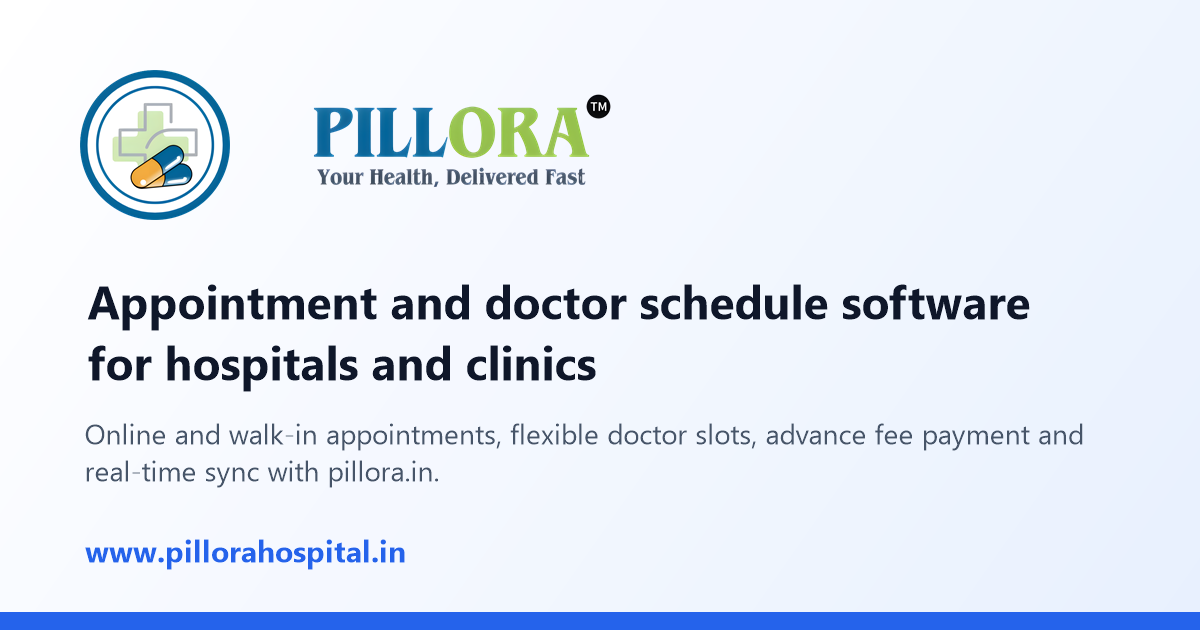
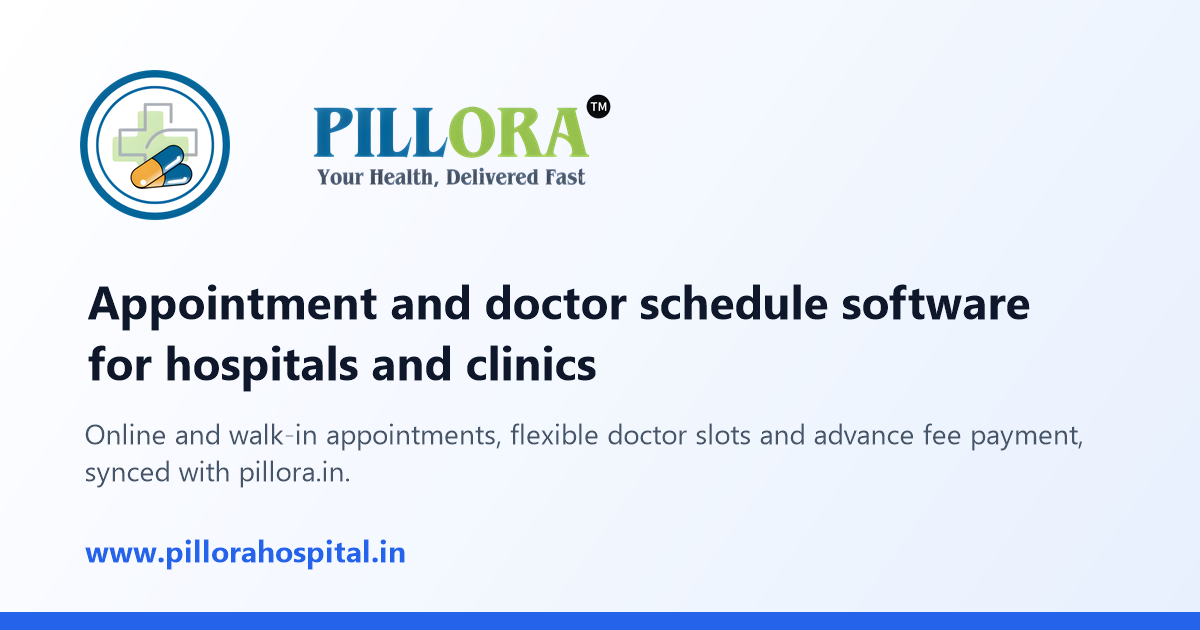
seo: drop 'atomic slot locking' and unverified 'real-time' wording
- Homepage appointment-engine card no longer claims double-booking
  prevention (QA found paid slots can be double-booked); neutral copy
  describing doctor-set slot durations and online + walk-in scheduling.
  Removed from claims.ts.
- 'Real-time sync' -> 'synced/shared with pillora.in' in the homepage
  card and intro, meta descriptions, Organization and
  SoftwareApplication JSON-LD, and the share image. The portals share
  one backend (changes show on next load); live socket push is not
  available in production.

Changed region(s): [[0.0617, 0.7238, 0.37, 0.7841], [0.6167, 0.6635, 0.8942, 0.7238]]

diff --git a/src/lib/structuredData.tsx b/src/lib/structuredData.tsx
@@ -24,7 +24,7 @@ export const organizationJsonLd = () => ({
     url: SITE.url,
     logo: absoluteUrl(SITE.logo),
     description:
-        'Pillora provides hospitals and clinics in India with online and walk-in appointment management, doctor schedules with flexible slots, advance online consultation fee payment, and a doctor directory that syncs in real time with the pillora.in patient booking portal.',
+        'Pillora provides hospitals and clinics in India with online and walk-in appointment management, doctor schedules with flexible slots, advance online consultation fee payment, and a doctor directory shared with the pillora.in patient booking portal.',
     sameAs: [...SITE.sameAs, SITE.patientSiteUrl],
     contactPoint: [
         {
@@ -117,14 +117,14 @@ export const softwareApplicationJsonLd = () => ({
     url: SITE.url,
     image: absoluteUrl(SITE.ogImage),
     description:
-        'Appointment and doctor schedule software for hospitals and clinics in India: online appointment booking for patients, offline and walk-in appointment management, digital scheduling with flexible doctor-configured slots, advance online consultation fee payment, a doctor directory with availability and fees, and real-time sync with the pillora.in patient booking portal.',
+        'Appointment and doctor schedule software for hospitals and clinics in India: online appointment booking for patients, offline and walk-in appointment management, digital scheduling with flexible doctor-configured slots, advance online consultation fee payment, and a doctor directory with availability and fees that is synced with the pillora.in patient booking portal.',
     featureList: [
         'Online appointment booking for patients',
         'Offline and walk-in appointment management',
         'Digital scheduling with flexible slots configured by doctors',
         'Advance online consultation fee payment',
         'Doctor directory with availability and fees',
-        'Real-time sync between the hospital dashboard and pillora.in',
+        'Doctor schedules and slots synced with the pillora.in patient booking portal',
     ],
     areaServed: { '@type': 'Country', name: 'India' },
     provider: { '@id': `${SITE.url}/#organization` },

diff --git a/src/app/HomeClient.tsx b/src/app/HomeClient.tsx
@@ -61,7 +61,7 @@ export default function HospitalPortalHome() {
                         transition={{ delay: 0.2 }}
                         className="text-xl text-slate-500 font-medium max-w-3xl mx-auto mb-12 leading-relaxed"
                     >
-                        Pillora Hospital Portal provides medical institutions with state-of-the-art tools to manage appointments, doctor schedules, and real-time patient booking with zero friction.
+                        Pillora Hospital Portal gives hospitals and clinics one place to manage online and walk-in appointments, doctor schedules and slots, and advance consultation fees, synced with the Pillora.in patient booking portal.
                     </motion.p>
                     
                     <motion.div 
@@ -89,7 +89,7 @@ export default function HospitalPortalHome() {
                     <FeatureCard 
                         icon={<Calendar className="w-8 h-8 text-blue-600" />}
                         title="Smart Appointment Engine"
-                        desc={UNVERIFIED_CLAIMS.appointmentEngineCopy}
+                        desc="Create consultation slots with durations set by each doctor, and manage online and walk-in appointments in one schedule."
                     />
                     <FeatureCard 
                         icon={<Users className="w-8 h-8 text-blue-600" />}
@@ -98,8 +98,8 @@ export default function HospitalPortalHome() {
                     />
                     <FeatureCard 
                         icon={<Zap className="w-8 h-8 text-blue-600" />}
-                        title="Real-time Sync"
-                        desc="Immediate synchronization between your management panel and the public Pillora.in patient booking portal."
+                        title="Synced with Pillora.in"
+                        desc="The doctors, schedules and fees you manage in your dashboard are shared with the Pillora.in patient booking portal."
                     />
                 </div>
             </section>

diff --git a/src/content/claims.ts b/src/content/claims.ts
@@ -19,7 +19,4 @@ export const UNVERIFIED_CLAIMS = {
     /** Security section copy: "enterprise-grade encryption" not documented */
     securityCopy:
         'Your hospital data is protected with enterprise-grade encryption. We ensure strict multi-tenancy so your records remain private and accessible only to your authorized personnel.',
-    /** Feature card: the QA review (Nov 2026) found paid slots can be double-booked */
-    appointmentEngineCopy:
-        'Generate real-time consultation slots with customizable durations. Prevent double-bookings with atomic slot locking.',
 } as const;

diff --git a/src/app/page.tsx b/src/app/page.tsx
@@ -6,7 +6,7 @@ import { JsonLd, softwareApplicationJsonLd } from "@/lib/structuredData";
 export const metadata: Metadata = pageMetadata({
     title: "Hospital Appointment Booking Software for India | Pillora",
     description:
-        "Appointment and doctor schedule software for hospitals and clinics: online and walk-in bookings, flexible slots, advance fee payment, real-time sync.",
+        "Appointment and doctor schedule software for hospitals and clinics: online and walk-in bookings, flexible slots, advance fees, synced with pillora.in.",
     path: "/",
 });
 

diff --git a/src/app/layout.tsx b/src/app/layout.tsx
@@ -28,7 +28,7 @@ export const metadata: Metadata = {
         template: "%s | Pillora for Hospitals",
     },
     description:
-        "Appointment and doctor schedule software for hospitals and clinics in India: online and walk-in bookings, flexible slots, advance fee payment, real-time sync.",
+        "Appointment and doctor schedule software for hospitals and clinics in India: online and walk-in bookings, flexible slots, advance fees, synced with pillora.in.",
     openGraph: {
         siteName: SITE.name,
         locale: SITE.locale,
